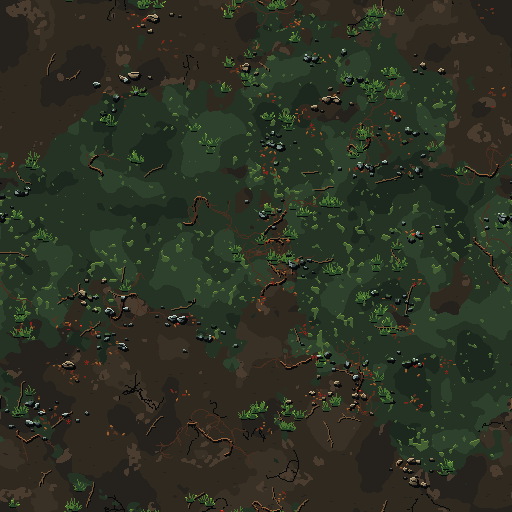
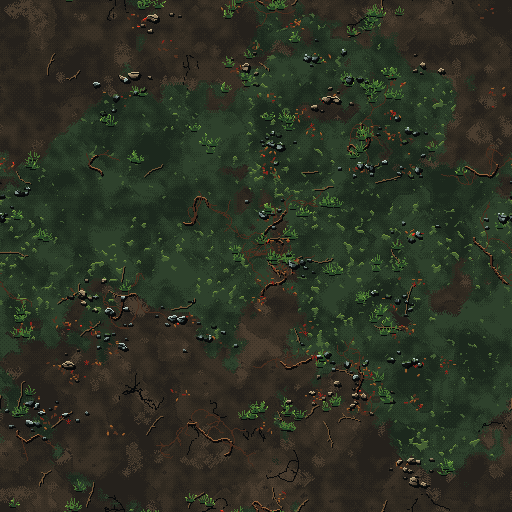
Piso da floresta na grade de 1 px: bordas e manchas com textura de 1 px
O piso.png tinha manchas chapadas de 2 a 20 px (77% das janelas 2x2 uniformes), enquanto heroi, monstros e objetos estao em 1 px.
refinar_piso.py (numpy e Pillow, semente fixa, tile sem emenda) parte do piso anterior (piso_floresta_base.png) e quebra as bordas
em xadrez de 1 px, aplica ordenado Bayer de baixo contraste dentro das manchas e afina os montinhos de folha. Mesma paleta de 30 cores,
brilho medio igual, piso_normal.png intacto. medir_piso.py mede a densidade (2x2 uniforme e corrida de cor) e o teste novo
v2_piso_pixel confere o teto de 0,40 nos quatro pisos, o brilho, a paleta e a emenda.

diff --git a/jogos/hordas/fonte_arte/piso/refinar_piso.py b/jogos/hordas/fonte_arte/piso/refinar_piso.py
@@ -1,0 +1,178 @@
+"""Refina o piso da floresta para a grade de 1 px (um tamanho de pixel para tudo).
+
+Entrada : fonte_arte/piso/piso_floresta_base.png (o piso.png do protótipo, saído de
+          prototipos/cara_nova/piso/gerar_piso.py, 512x512, ~30 cores, manchas chapadas de 2 a 20 px).
+Saída   : projeto/prototipos/piso/piso.png (o que o jogo carrega, ver v2/cenario.gd).
+          O piso_normal.png NÃO muda: a altura vem das formas (pedras, raízes, musgo) e o refino só mexe no tom.
+
+O que o script faz (só numpy e Pillow, determinístico: a semente é fixa; tudo usa wrap, então o tile continua sem emenda):
+    1. Separa o "terreno" (3 tons de musgo e 4 de terra, as manchas grandes) dos detalhes com forma (capim, pedras, raízes,
+       folhas, brasas), que não são tocados.
+    2. Borda das manchas: onde dois tons de terreno se encostam, as duas faixas de 1 px de cada lado viram xadrez de
+       1 px (a 1ª faixa, 50%; a 2ª, 25%), em vez de uma curva lisa de degraus de 2 a 5 px.
+    3. Dentro das manchas: ordenado (Bayer 4x4) de baixo contraste entre tons vizinhos da mesma rampa, guiado por ruído
+       periódico de baixa frequência, para o chapado de dezenas de pixels ganhar textura de 1 px sem mudar a cor média.
+    4. Folhas e brasas de 2 a 3 px: os "montinhos" de folha (musgo4/erva) que formam blocos 2x2 ou maiores perdem os pixels
+       que fecham o bloco (xadrez), ficando com 1 px de espessura.
+
+Uso: python refinar_piso.py            (regrava o piso.png do jogo e imprime a medição antes/depois)
+     python refinar_piso.py --medir    (só mede)
+"""
+import os
+import sys
+
+import numpy as np
+from PIL import Image
+
+AQUI = os.path.dirname(os.path.abspath(__file__))
+BASE = os.path.join(AQUI, "piso_floresta_base.png")
+SAIDA = os.path.normpath(os.path.join(AQUI, "..", "..", "projeto", "prototipos", "piso", "piso.png"))
+sys.path.insert(0, AQUI)
+from medir_piso import medir_array  # noqa: E402
+
+SEMENTE = 4417
+
+
+def rgb(h):
+    return tuple(int(h[i:i + 2], 16) for i in (1, 3, 5))
+
+
+# rampas do terreno, do mais escuro ao mais claro (as mesmas cores de gerar_piso.py)
+MUSGO = [rgb("#1c281d"), rgb("#243323"), rgb("#2e412c")]
+TERRA = [rgb("#25211c"), rgb("#2f2920"), rgb("#3a3126"), rgb("#4a3d2f")]
+FOLHAS = [rgb("#455f34"), rgb("#4a7632"), rgb("#284a28")]  # musgo4, erva, erva_base (montinhos de folha)
+
+AMP = 0.9 # amplitude do ordenado interno, em níveis da rampa (0 desliga)
+SIGMA_RUIDO = (3.0, 7.0)
+
+
+def ruido_z(rng, n, sigma):
+    """Ruído gaussiano periódico (filtro na frequência), média 0, desvio 1."""
+    w = rng.standard_normal((n, n))
+    k = np.fft.fftfreq(n)
+    k2 = k[:, None] ** 2 + k[None, :] ** 2
+    r = np.fft.ifft2(np.fft.fft2(w) * np.exp(-2 * (np.pi * sigma) ** 2 * k2)).real
+    return (r - r.mean()) / r.std()
+
+
+BAYER4 = (np.array([[0, 8, 2, 10], [12, 4, 14, 6], [3, 11, 1, 9], [15, 7, 13, 5]], np.float32) + 0.5) / 16.0
+
+
+def refinar(base):
+    h, w = base.shape[:2]
+    rgbi = base[..., :3]
+    rng = np.random.default_rng(SEMENTE)
+    yy, xx = np.mgrid[0:h, 0:w]
+    xadrez = ((xx + yy) % 2) == 0
+
+    # rampas -> campos (familia -1 = detalhe, 0 musgo, 1 terra; nivel)
+    fam = np.full((h, w), -1, np.int8)
+    niv = np.zeros((h, w), np.int8)
+    for f, rampa in enumerate((MUSGO, TERRA)):
+        for k, c in enumerate(rampa):
+            m = (rgbi == np.array(c, np.uint8)).all(-1)
+            fam[m] = f
+            niv[m] = k
+    terreno = fam >= 0
+
+    def cor_de(f, k):
+        out = np.zeros((h, w, 3), np.uint8)
+        for fi, rampa in enumerate((MUSGO, TERRA)):
+            for ki, c in enumerate(rampa):
+                out[(f == fi) & (k == ki)] = c
+        return out
+
+    # 2) borda: xadrez de 1 px nas duas faixas de cada lado
+    fam2, niv2 = fam.copy(), niv.copy()
+    desvio = np.zeros((h, w), bool)  # pixels já mexidos (o ordenado interno os deixa quietos)
+
+    def vizinho_diferente(f, k, mascara):
+        """Para cada pixel, (existe, fam, nivel) de um vizinho de 4 que é terreno e tem outra cor."""
+        achou = np.zeros((h, w), bool)
+        vf = np.zeros((h, w), np.int8)
+        vk = np.zeros((h, w), np.int8)
+        for dy, dx in ((0, 1), (1, 0), (0, -1), (-1, 0)):
+            nf = np.roll(np.roll(f, dy, 0), dx, 1)
+            nk = np.roll(np.roll(k, dy, 0), dx, 1)
+            ok = (nf >= 0) & ((nf != f) | (nk != k)) & mascara & ~achou
+            vf[ok] = nf[ok]
+            vk[ok] = nk[ok]
+            achou |= ok
+        return achou, vf, vk
+
+    ach1, vf1, vk1 = vizinho_diferente(fam, niv, terreno)
+    ach1 &= terreno
+    flip1 = ach1 & xadrez
+    fam2[flip1] = vf1[flip1]
+    niv2[flip1] = vk1[flip1]
+    desvio |= ach1
+    # 2ª faixa: vizinho (de 4) da 1ª faixa, ainda intocado, com a cor da outra margem, 1 px em cada 4
+    um_em_quatro = ((xx % 2) == 0) & ((yy % 2) == 0)
+    for dy, dx in ((0, 1), (1, 0), (0, -1), (-1, 0)):
+        prox = np.roll(np.roll(ach1, dy, 0), dx, 1)
+        pf = np.roll(np.roll(vf1, dy, 0), dx, 1)
+        pk = np.roll(np.roll(vk1, dy, 0), dx, 1)
+        pf0 = np.roll(np.roll(fam, dy, 0), dx, 1)
+        pk0 = np.roll(np.roll(niv, dy, 0), dx, 1)
+        # o pixel é da mesma cor do vizinho de borda (mesma margem) e ainda não foi mexido: puxa a cor da outra margem
+        cand = terreno & ~desvio & prox & (pf0 == fam) & (pk0 == niv) & um_em_quatro
+        fam2[cand] = pf[cand]
+        niv2[cand] = pk[cand]
+        desvio |= cand
+
+    # 3) ordenado interno de baixo contraste, guiado por ruído periódico
+    if AMP > 0:
+        n = sum(ruido_z(rng, h, s) for s in SIGMA_RUIDO) / len(SIGMA_RUIDO)
+        n = n / n.std()
+        s = np.clip(n, -1.6, 1.6) * AMP / 1.6
+        thr = BAYER4[yy % 4, xx % 4]
+        passo = np.floor(s + thr).astype(np.int8)
+        novo = niv2 + passo
+        for f, rampa in enumerate((MUSGO, TERRA)):
+            novo = np.where(fam2 == f, np.clip(novo, 0, len(rampa) - 1), novo)
+        mexe = terreno & ~desvio & (fam2 >= 0)
+        niv2 = np.where(mexe, novo, niv2).astype(np.int8)
+
+    saida = base.copy()
+    mudou = terreno
+    cores = cor_de(fam2, niv2)
+    saida[..., :3] = np.where(mudou[..., None], cores, saida[..., :3])
+
+    # 4) montinhos de folha: tira o que fecha blocos 2x2 (xadrez), deixando 1 px de espessura
+    fol = np.zeros((h, w), bool)
+    for c in FOLHAS:
+        fol |= (saida[..., :3] == np.array(c, np.uint8)).all(-1)
+    blk = fol & np.roll(fol, -1, 1) & np.roll(fol, -1, 0) & np.roll(np.roll(fol, -1, 0), -1, 1)
+    # cada janela 2x2 cheia: o pixel de baixo-direita (que "fecha" o bloco) vira o terreno em volta, se der xadrez
+    # (cobre os 4 cantos da janela de modo que sobram diagonais de 1 px)
+    fecha = np.zeros((h, w), bool)
+    fecha |= np.roll(np.roll(blk, 1, 0), 1, 1) & ((xx + yy) % 2 == 0)  # canto baixo-direita das janelas
+    fecha |= np.roll(blk, 1, 0) & ((xx + yy) % 2 == 1)  # canto baixo-esquerda
+    fecha &= fol
+    if fecha.any():
+        ref = saida.copy()
+        # cor de substituição: a do terreno mais próximo (mediana dos vizinhos de terreno, senão escurece o pixel)
+        for y, x in zip(*np.nonzero(fecha)):
+            viz = []
+            for dy, dx in ((0, 1), (1, 0), (0, -1), (-1, 0)):
+                yy2, xx2 = (y + dy) % h, (x + dx) % w
+                if terreno[yy2, xx2] and not fecha[yy2, xx2]:
+                    viz.append(tuple(ref[yy2, xx2, :3]))
+            if viz:
+                saida[y, x, :3] = max(set(viz), key=viz.count)
+    return saida
+
+
+def main():
+    base = np.array(Image.open(BASE).convert("RGBA"))
+    novo = refinar(base)
+    for nome, im in (("base", base), ("novo", novo)):
+        w, h, n, f, ch, cv = medir_array(im)
+        print(f"{nome}: {w}x{h} cores={n} 2x2_uniforme={f:.3f} corrida_h={ch:.2f} corrida_v={cv:.2f}")
+    if "--medir" not in sys.argv:
+        Image.fromarray(novo).save(SAIDA, optimize=True)
+        print("gravado", SAIDA)
+
+
+if __name__ == "__main__":
+    main()

diff --git a/jogos/hordas/fonte_arte/piso/medir_piso.py b/jogos/hordas/fonte_arte/piso/medir_piso.py
@@ -1,0 +1,42 @@
+"""Mede a densidade de pixel de um PNG: fração de janelas 2x2 uniformes e comprimento médio de corrida de cor.
+
+Uso: python medir_piso.py arquivo.png [mais.png ...]
+Pixel de arte em 1 px de verdade tem poucas janelas 2x2 uniformes e corridas curtas.
+Regra de bolso deste projeto: 2x2 uniforme acima de 0.55 = chapado demais (blocos de 2-3 px).
+A borda é circular (o piso é tile).
+"""
+import sys
+
+import numpy as np
+from PIL import Image
+
+
+def _corridas(m):
+    ig = (m[:, 1:] == m[:, :-1]).all(-1)
+    tot = m.shape[0] * m.shape[1]
+    quebras = (~ig).sum() + m.shape[0]
+    return tot / quebras
+
+
+def medir_array(im):
+    """im: array HxWx4 uint8. Devolve (w, h, cores, frac_2x2, corrida_h, corrida_v)."""
+    a = im[..., 3] > 0
+    h, w = im.shape[:2]
+    r = np.roll(im, -1, axis=1)
+    d = np.roll(im, -1, axis=0)
+    rd = np.roll(r, -1, axis=0)
+    uni = (im == r).all(-1) & (im == d).all(-1) & (im == rd).all(-1) & a
+    frac22 = uni.sum() / max(1, a.sum())
+    cores = len(np.unique(im.reshape(-1, 4), axis=0))
+    return w, h, cores, frac22, _corridas(im), _corridas(im.transpose(1, 0, 2))
+
+
+def medir(caminho):
+    return medir_array(np.array(Image.open(caminho).convert("RGBA")))
+
+
+if __name__ == "__main__":
+    print("arquivo | tam | cores | 2x2_uniforme | corrida_h | corrida_v")
+    for c in sys.argv[1:]:
+        w, h, n, f, ch, cv = medir(c)
+        print(f"{c} | {w}x{h} | {n} | {f:.3f} | {ch:.2f} | {cv:.2f}")

diff --git a/docs/LICENCAS_ARTE.md b/docs/LICENCAS_ARTE.md
@@ -256,3 +256,5 @@ Seis folhas do **pixelfx** (https://github.com/patch-gg/pixelfx), licença **MIT
 
 - Arte própria procedural em `jogos/hordas/projeto/v2/adagas.gd` (`_img_missil`, 24×9 px) e `v2/misseis_visual.gd` (oito quadros de explosão de 40×40 px, gerados em memória). Formas e paleta desenhadas por código neste projeto; sem imagem, textura, modelo, biblioteca de efeitos ou referência de terceiros adicionados. Não usa o pixelfx nem exige arquivo bitmap externo.
 - O ajuste de recuo dos braços em `jogos/hordas/fonte_arte/blender_herois/lightwolf_mecha/anim_combo.py` e os quadros derivados do combo continuam sobre o modelo próprio do mecha registrado acima. Não acrescenta arte de terceiros nem muda a origem das demais animações.
+
+- `jogos/hordas/projeto/prototipos/piso/piso.png` (piso da floresta, 512x512) refeito para a grade de 1 px (2026-11-03, `Claude do Alisson (PC)`): derivado do nosso próprio piso anterior (`jogos/hordas/fonte_arte/piso/piso_floresta_base.png`, saído de `prototipos/cara_nova/piso/gerar_piso.py`) pelo script `jogos/hordas/fonte_arte/piso/refinar_piso.py` (numpy e Pillow, semente fixa): bordas das manchas em xadrez de 1 px, ordenado Bayer de baixo contraste dentro das manchas, mesma paleta de 30 cores, sem emenda. `piso_normal.png` não mudou. Medição em `fonte_arte/piso/medir_piso.py`. Arte própria, sem material de terceiros. Licença: a do projeto.
